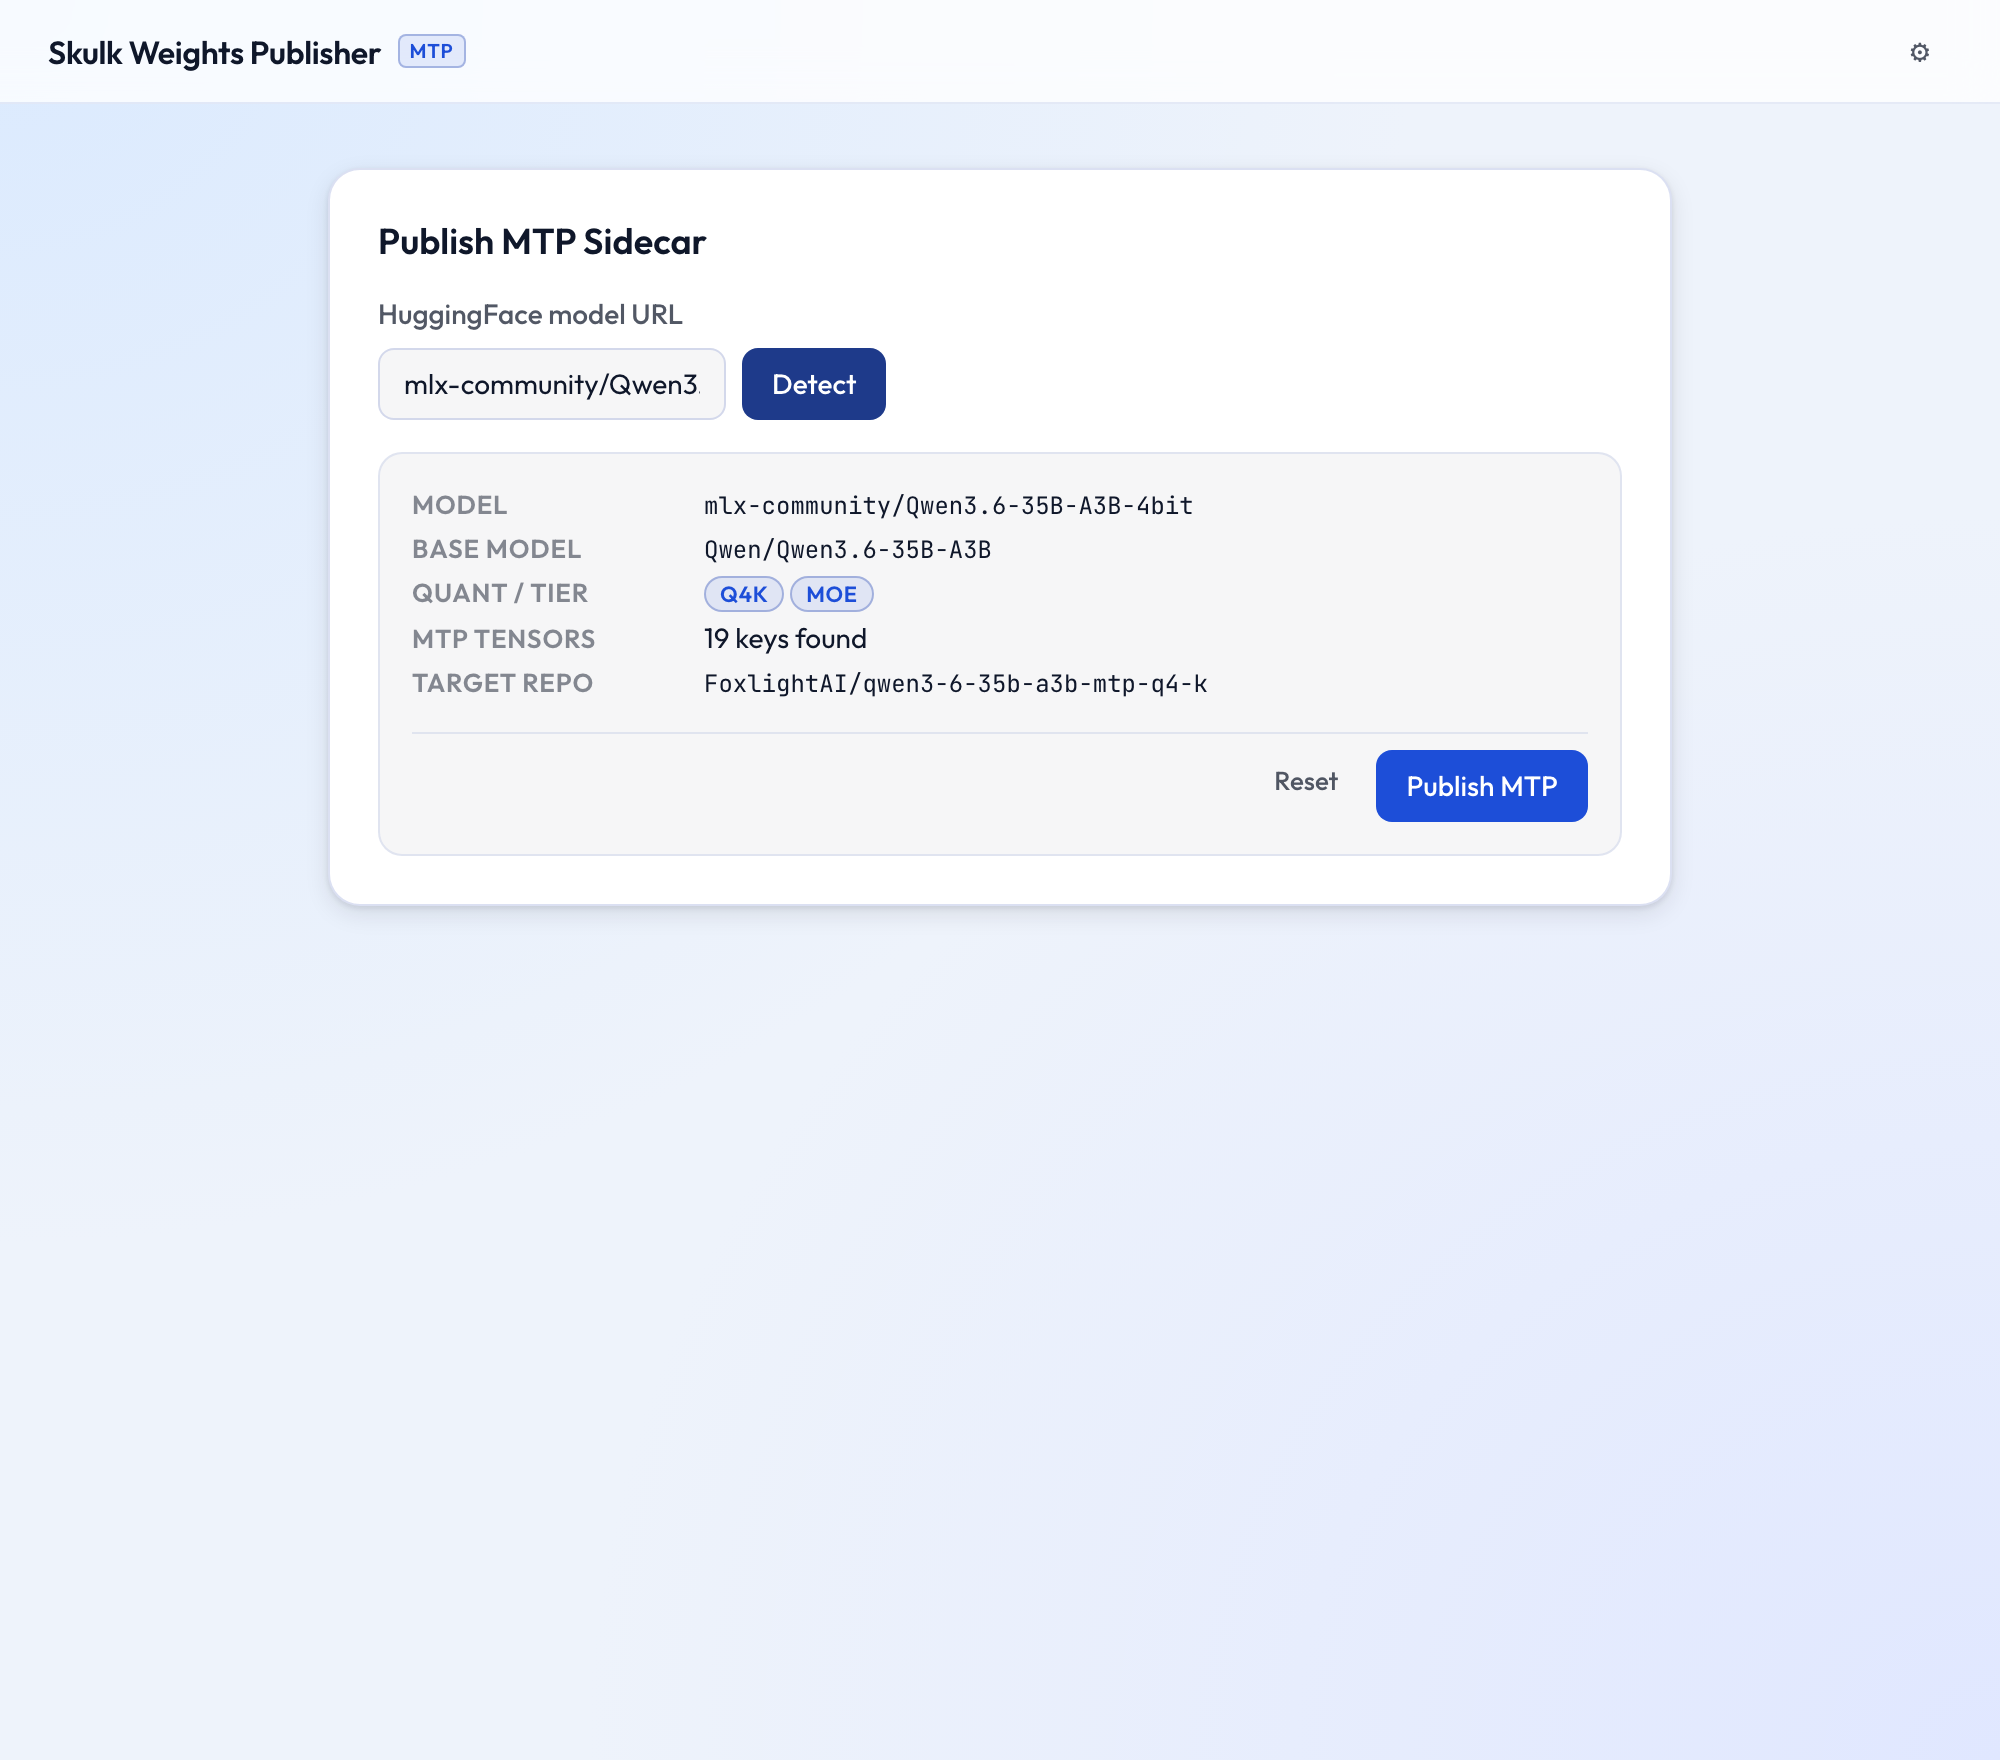
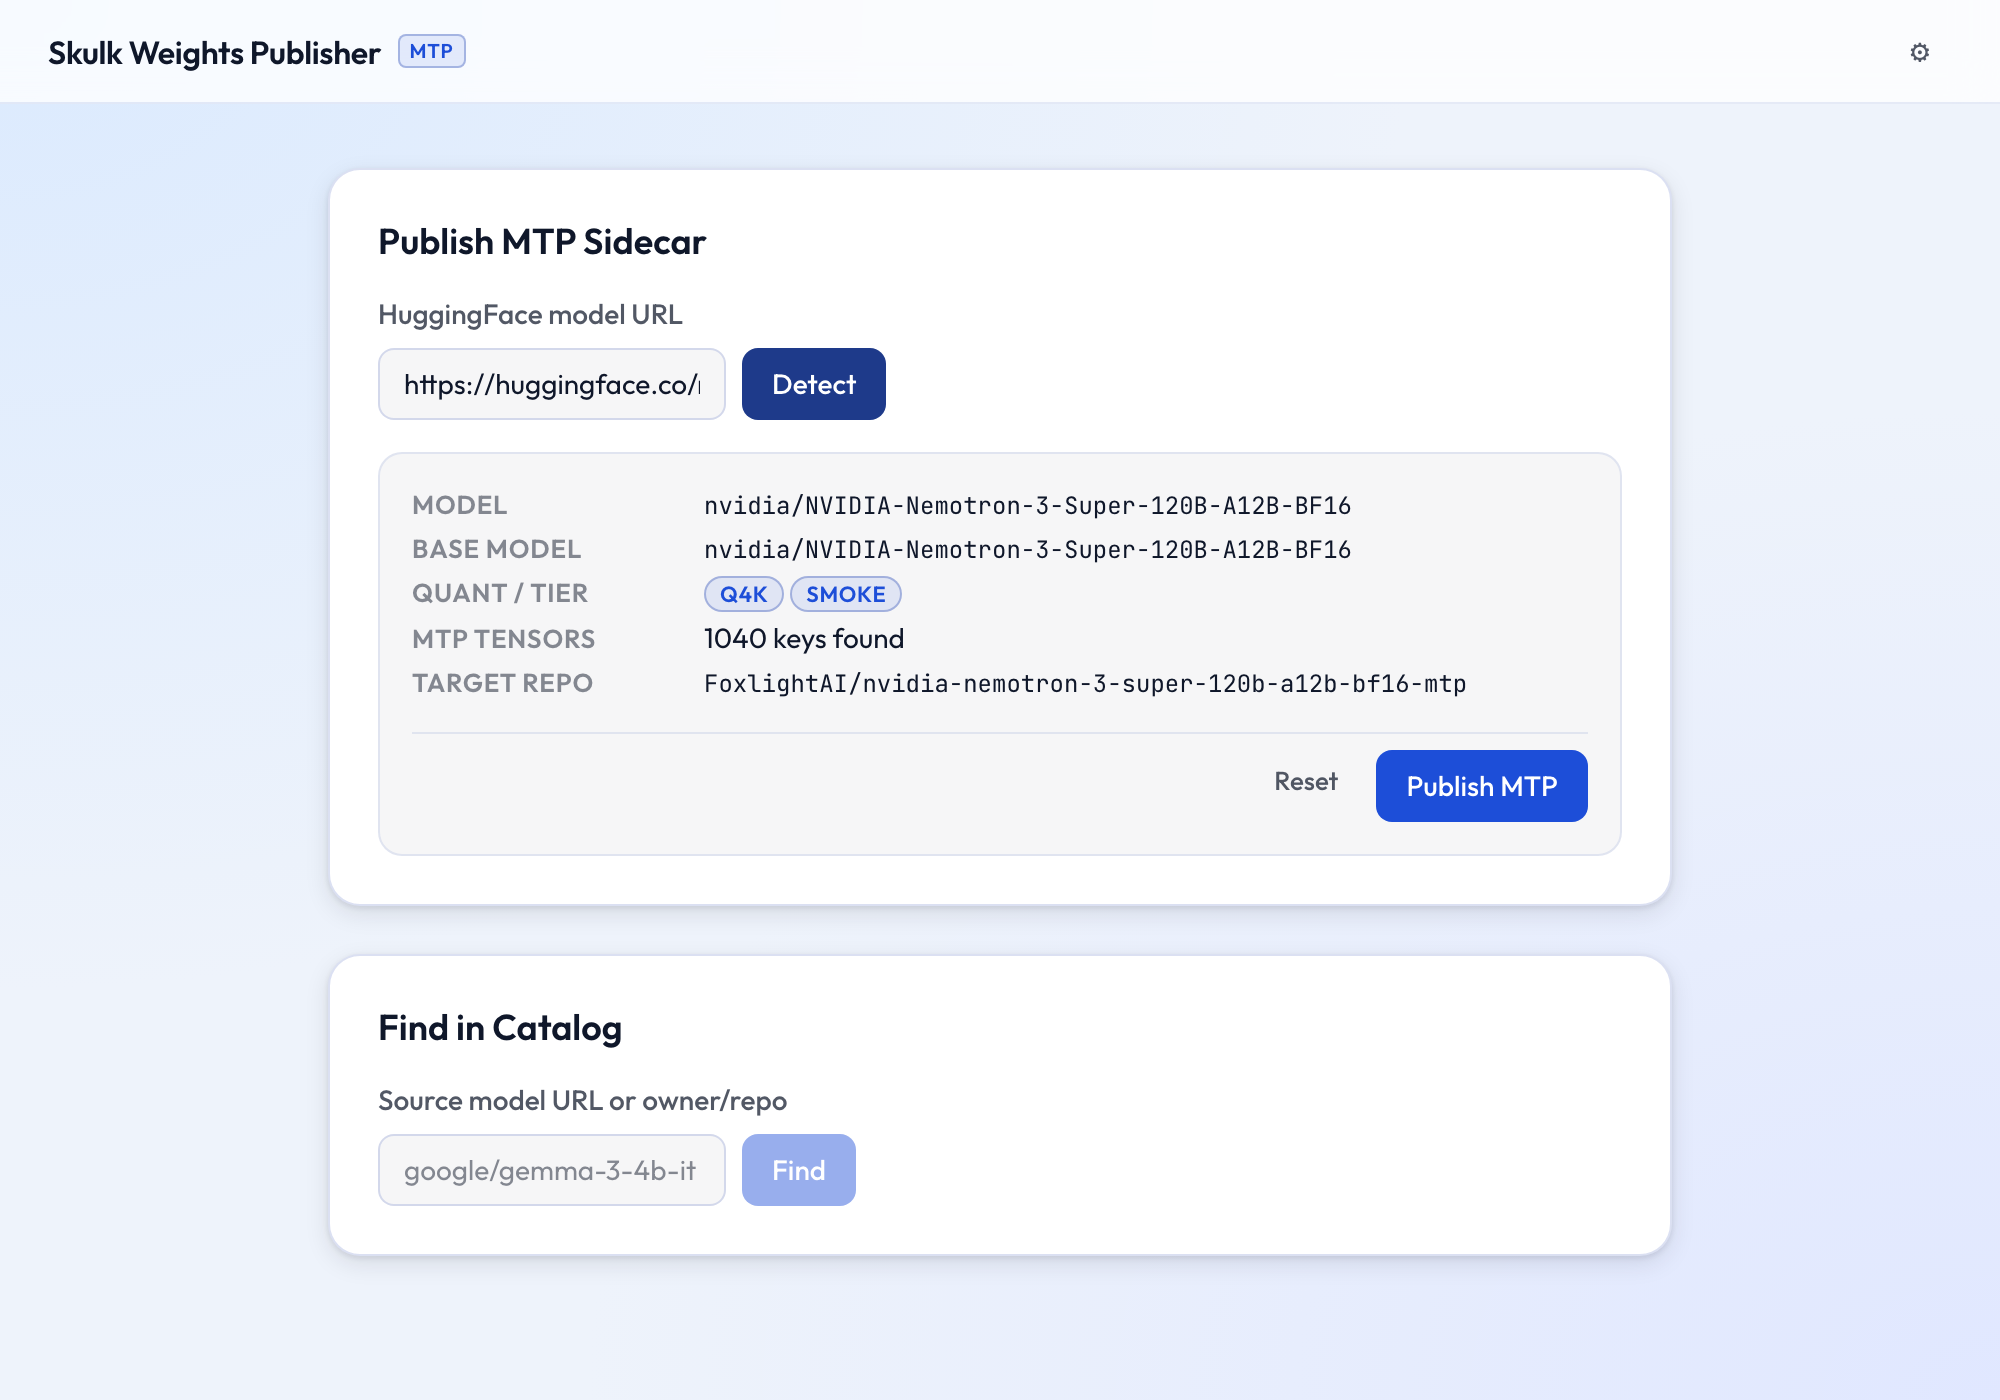
docs: real publish-flow screenshots from a 120B Nemotron MTP extraction
Captured against a live skulk-ui session publishing the MTP sidecar of
nvidia/NVIDIA-Nemotron-3-Super-120B-A12B-BF16 (1,040-tensor MoE drafter,
2 of 50 shards / ~8 GB downloaded instead of ~240 GB):

- 03-detect-mtp.png refreshed: Nemotron detection with resolved base,
  Q4K/SMOKE badges, 1040 MTP keys, and derived sidecar repo
- 05-publish-downloading.png: staged publish log, downloading active
  with per-shard detail
- 07-publish-uploading.png: live byte-level upload progress
  (percentage + GB transferred)
- 08-publish-done.png: all stages complete, sidecar + model card
  published

Wired into the skulk-ui guide as a stage-by-stage walkthrough and the
README GUI section as a hero shot.

diff --git a/website/docs/guides/skulk-ui.md b/website/docs/guides/skulk-ui.md
@@ -88,6 +88,23 @@ full precision (bf16, unquantized) as `mtp.safetensors` to the target repo.
 Progress streams live in the log panel, stage by stage (finding shards →
 downloading → extracting → saving → uploading).
 
+The walkthrough below publishes the MTP heads of
+[`nvidia/NVIDIA-Nemotron-3-Super-120B-A12B-BF16`](https://huggingface.co/nvidia/NVIDIA-Nemotron-3-Super-120B-A12B-BF16)
+— a 120B model whose 1,040-tensor MoE drafter lives in just 2 of its 50
+shards, so SWP downloads ~8 GB instead of ~240 GB.
+
+![Publish log with the downloading stage active and shard progress](/img/skulk-ui/05-publish-downloading.png)
+
+Extraction streams tensors to disk one at a time (peak memory stays bounded
+regardless of model size), then the upload reports live byte-level progress:
+
+![Publish log uploading the sidecar with live percentage and GB progress](/img/skulk-ui/07-publish-uploading.png)
+
+When the upload lands, the sidecar repo gets `mtp.safetensors` plus an
+auto-generated model card, and every stage shows complete:
+
+![Publish log with all stages complete after a successful publish](/img/skulk-ui/08-publish-done.png)
+
 :::note
 Real extraction is pure-numpy and cross-platform — it needs only `numpy`,
 `safetensors`, and `huggingface_hub` (all pulled in by `uv sync --extra ui`),

diff --git a/README.md b/README.md
@@ -300,6 +300,8 @@ slug. Set `SKULK_WEIGHTS_COLLECTION` to one of `none`, `0`, `false`, `no`,
 HuggingFace model URL, review the detected metadata, and click Publish — no
 catalog knowledge required.
 
+![skulk-ui publishing the MTP sidecar of a 120B Nemotron model, with live stage and upload progress](website/static/img/skulk-ui/07-publish-uploading.png)
+
 **Prerequisites**
 
 - A **source checkout** of this repo. `skulk-ui` serves the React app from the